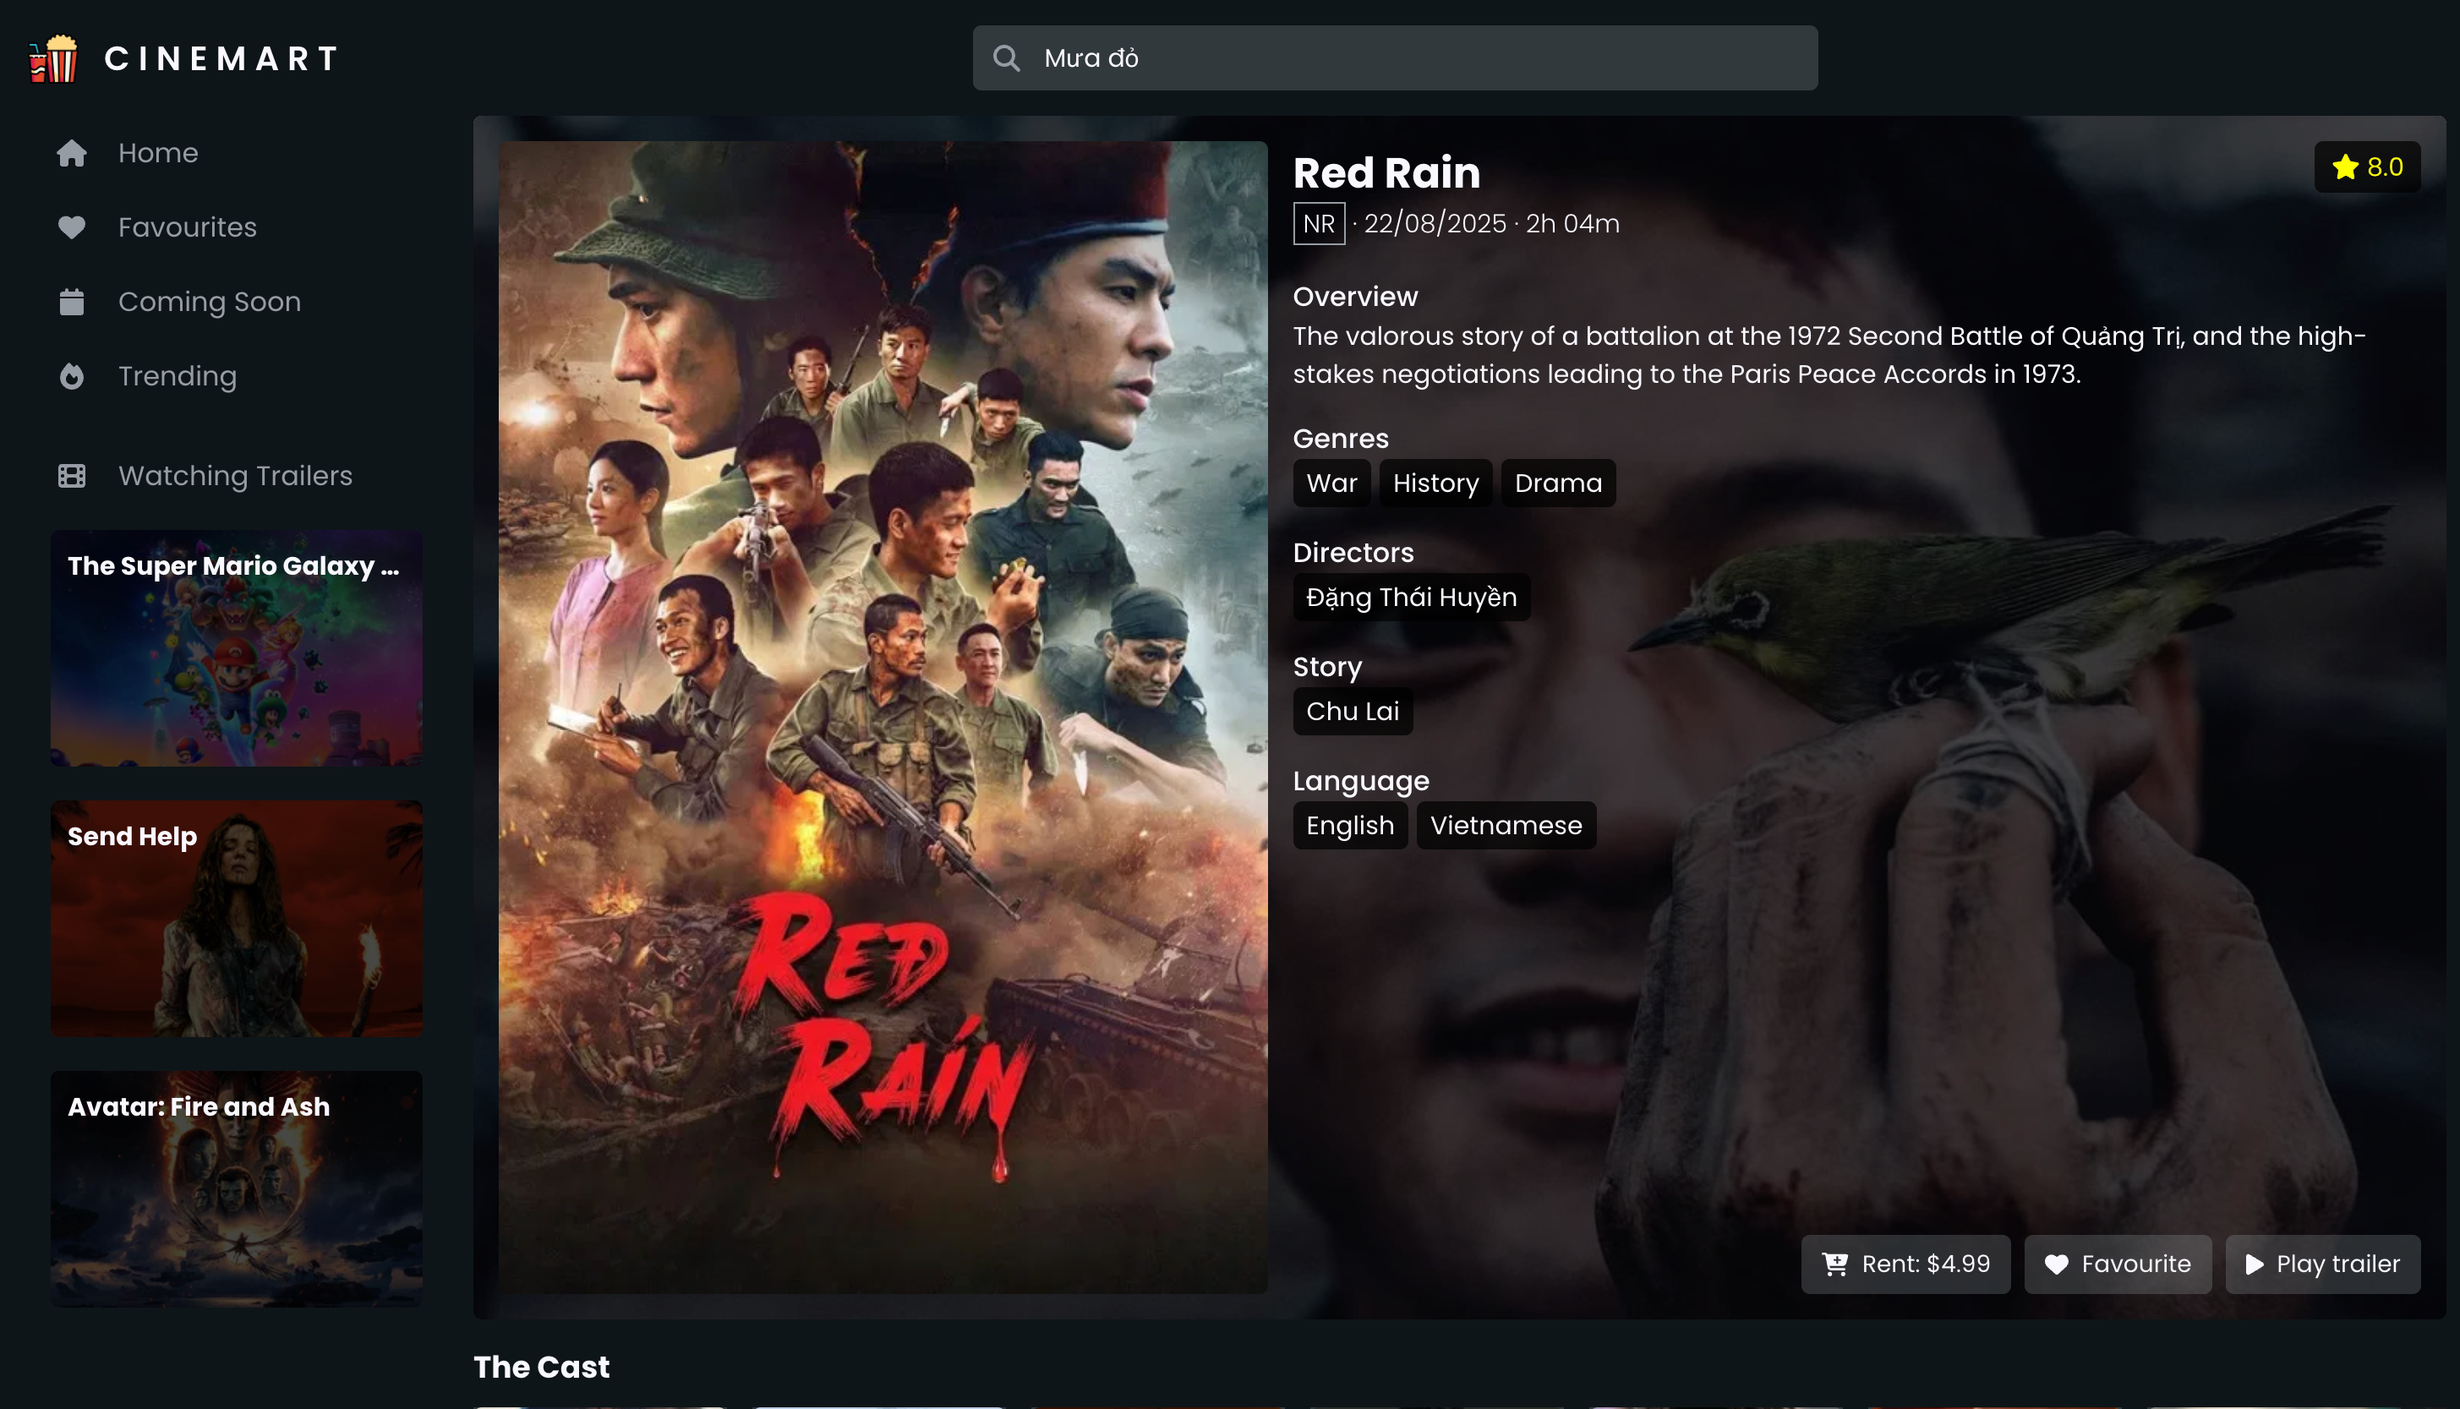
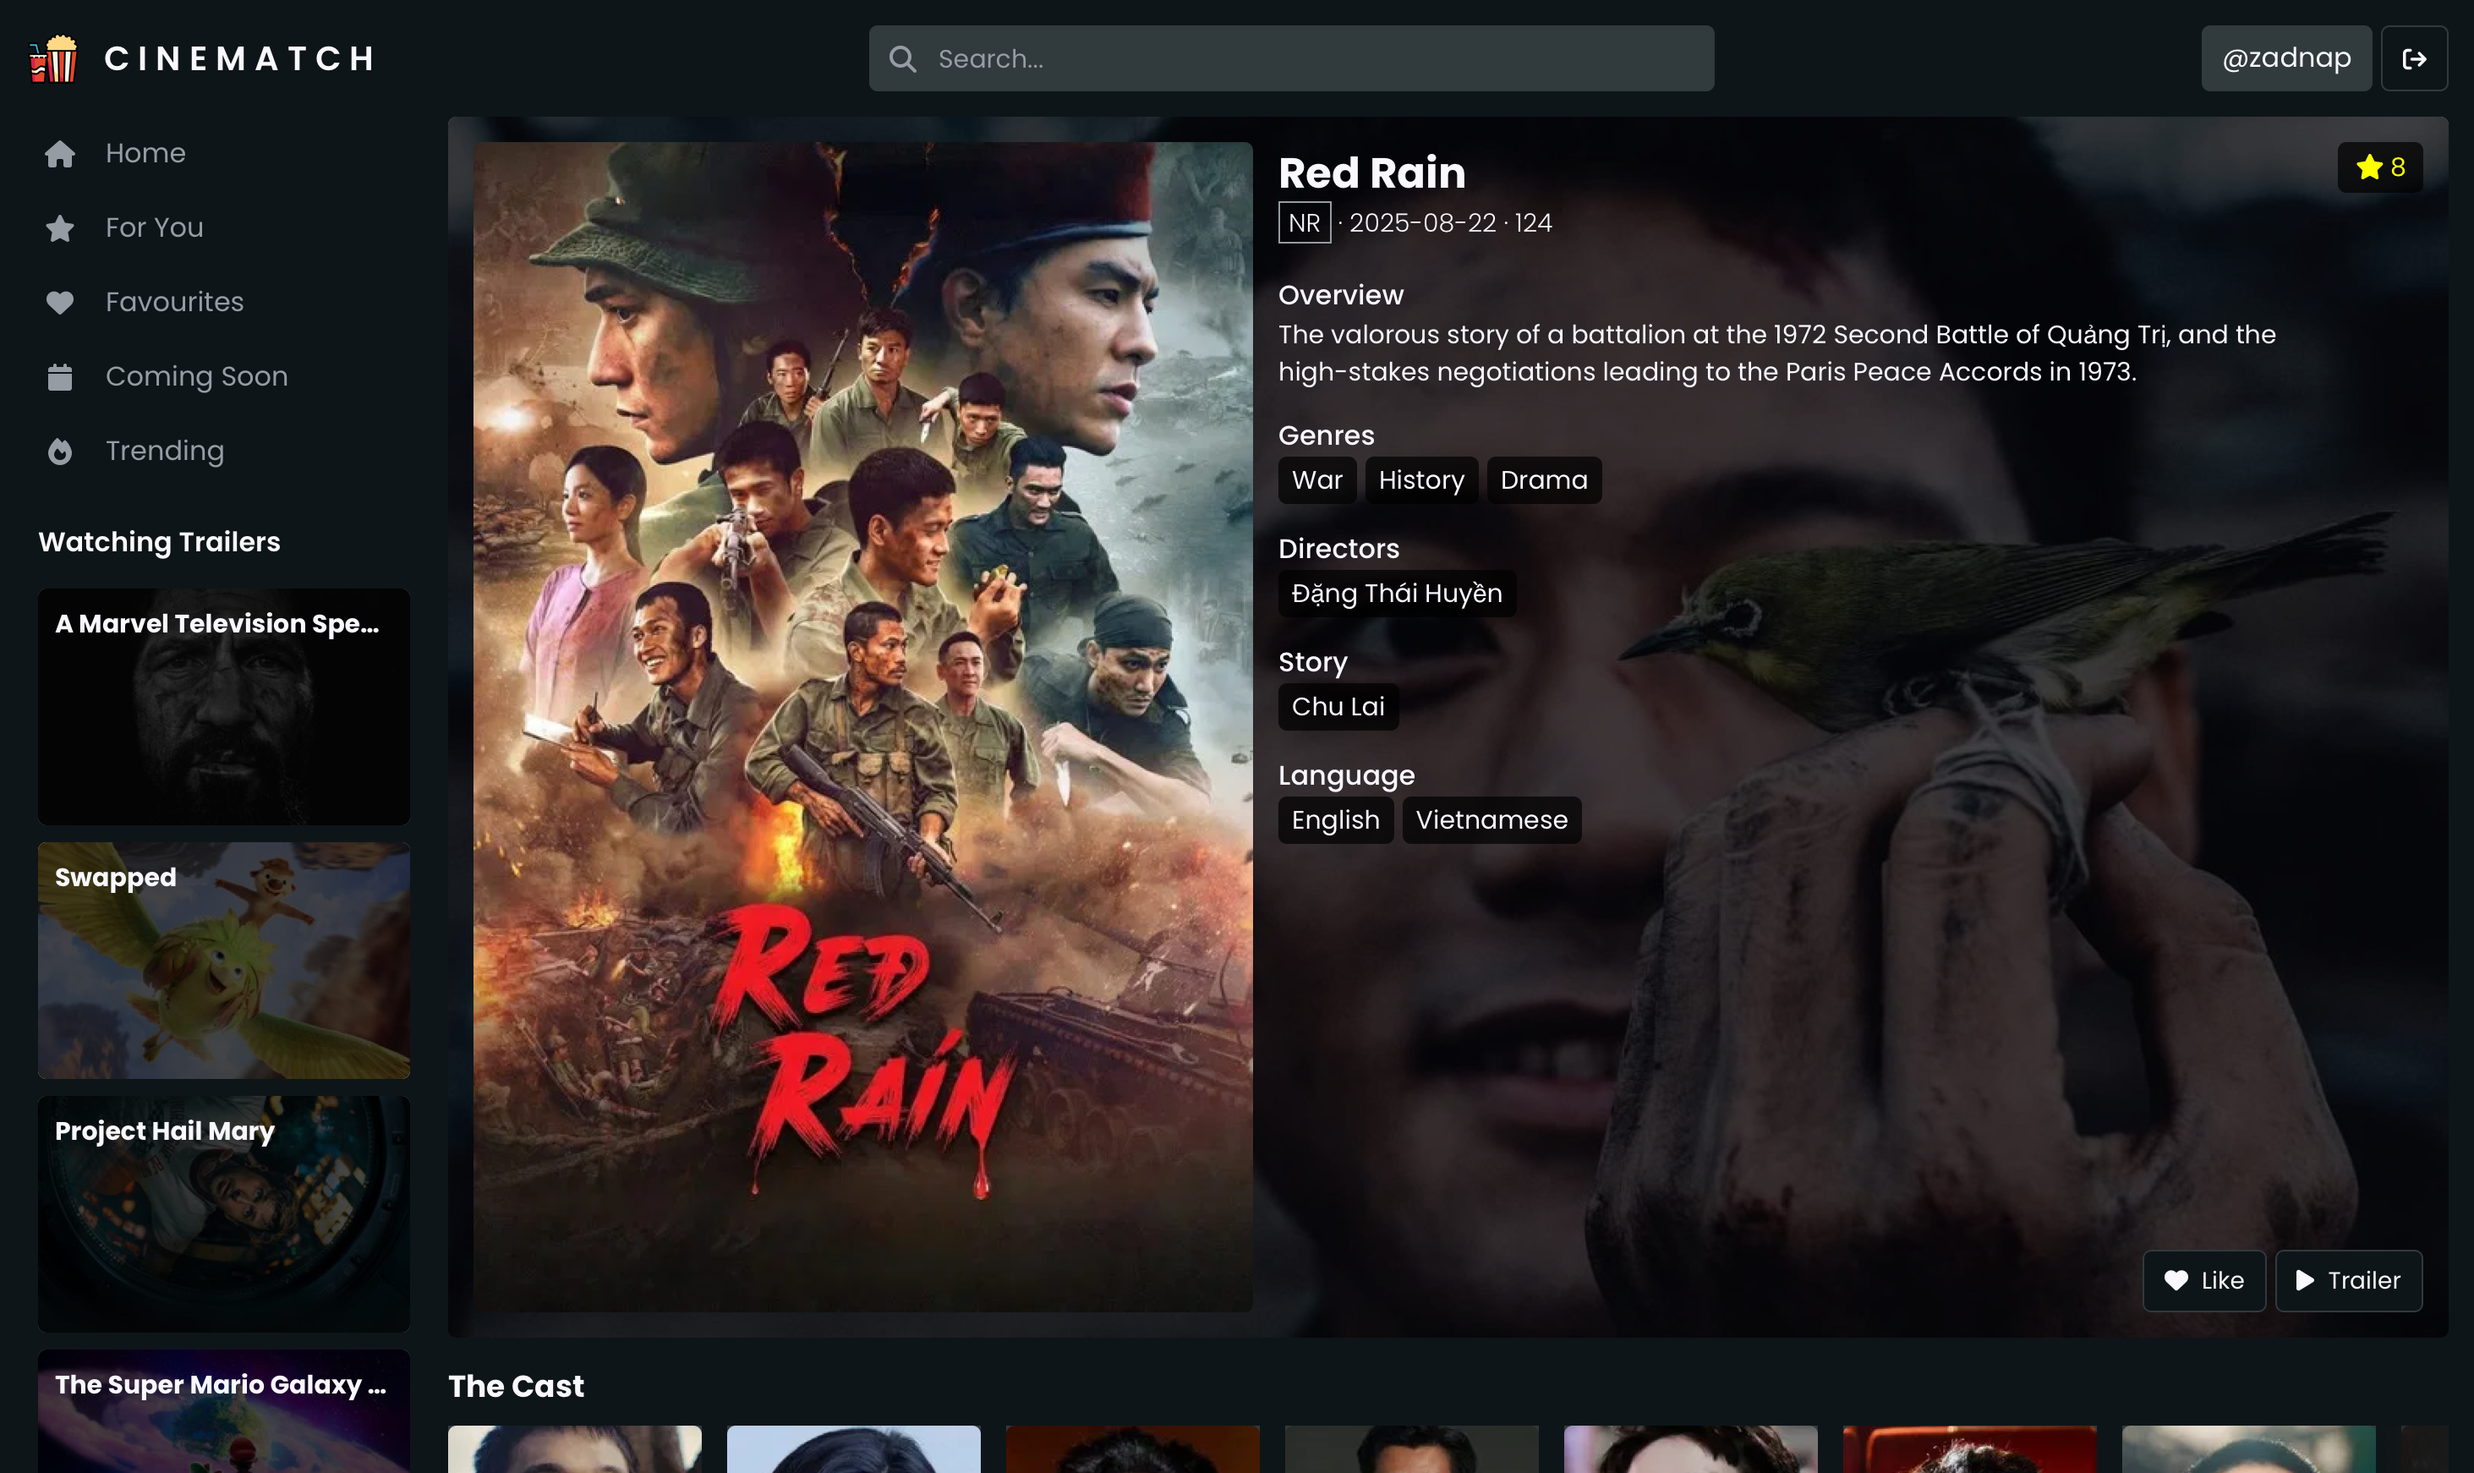
docs: modify README.md

diff --git a/README.md b/README.md
@@ -2,14 +2,14 @@
 
 ### Overview
 
-- A shopping cart web application (used to be) built as part of [The Odin Project](https://www.theodinproject.com/lessons/node-path-react-new-shopping-cart)
-  curriculum. Now it serves as the client for [CineMatch API](https://github.com/zadnap/cinematch-api).
+- A movie recommendation web application (used to be) built as part of [The Odin Project](https://www.theodinproject.com/lessons/node-path-react-new-shopping-cart)
+  curriculum. Now it serves as the client for [CineMatch API](https://github.com/zadnap/cinematch-api) and uses [CineMatch ML Service](https://github.com/zadnap/cinematch-ml-service) as its recommendation core.
 - This project focuses on practicing React, React Router, and state management by creating a simple e-commerce experience with product browsing and cart functionality.
-- See the project in action: [CineMatch](https://cinematch-client-xi-liart.vercel.app/).
+- See the project in action: [CineMatch](https://cinematch-client.vercel.app).
 
 ### Features
 
-- Browse a list of products with images and details.
+- Browse a list of movies with poster and details.
 - Responsive design for desktop and mobile.
 - Client-side routing with React Router.
 
@@ -38,7 +38,14 @@ cd cinematch-client
 npm install
 ```
 
-3. Run the development server:
+3. Create an .env file with content
+
+```
+VITE_API_URL=http://127.0.0.1:5000
+VITE_ENABLE_ANALYTICS=false
+```
+
+4. Run the development server:
 
 ```
 npm run dev
@@ -61,6 +68,14 @@ Through this project, I practiced:
 - Free placeholder images from [Freepik](https://www.freepik.com/).
 
 ### Screenshots
+
+- Sign-in page
+
+  ![Home screenshot](./docs/sign_in.png)
+
+- Onboarding page
+
+  ![Home screenshot](./docs/onboarding.png)
 
 - Home page
 
